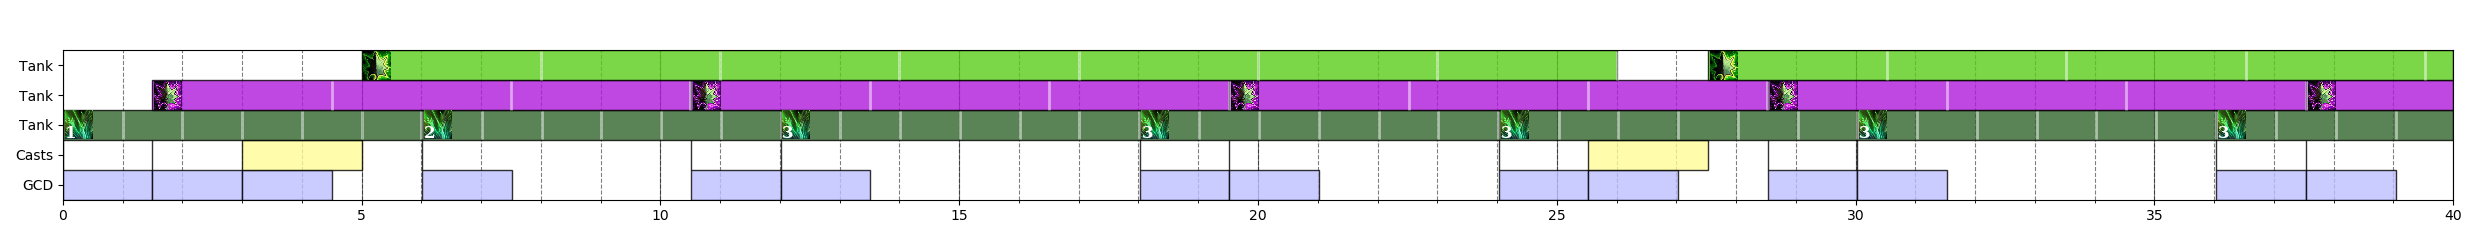
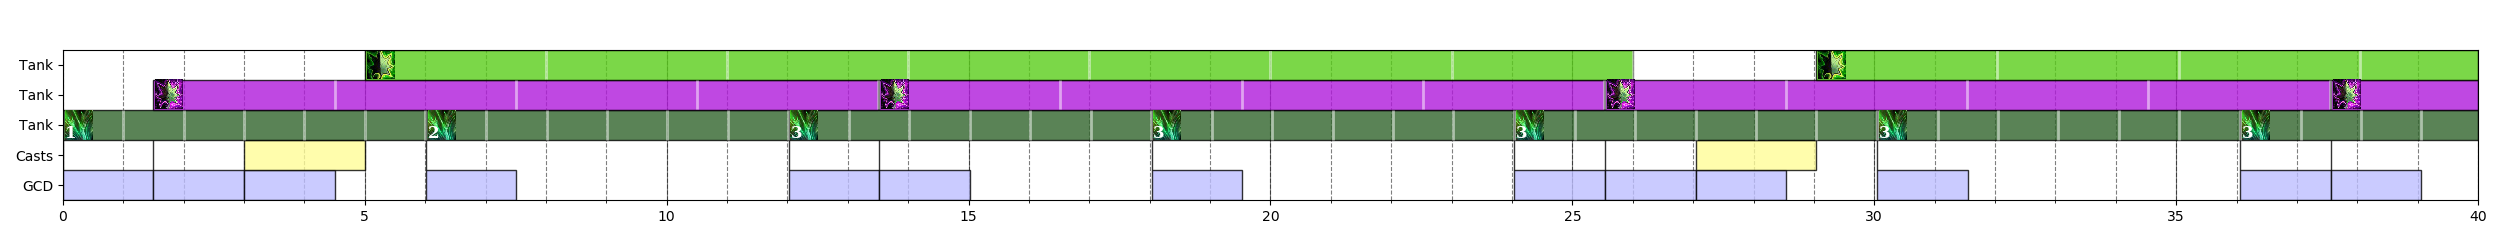
default number of stacks is 1 and not 0

diff --git a/rotation.py b/rotation.py
@@ -36,7 +36,7 @@ class Assignment(object):
 
 
 class Event(object):
-    def __init__(self, start, duration=0, stacks=0):
+    def __init__(self, start, duration=0, stacks=1):
         self._start = start
         self._duration = duration
         self._stacks = stacks
@@ -67,7 +67,7 @@ class Event(object):
 
 
 class SpellEvent(Event):
-    def __init__(self, start, spell, stacks=0):
+    def __init__(self, start, spell, stacks=1):
         super().__init__(start=start, duration=spell.duration, stacks=stacks)
         self._spell = spell
 
@@ -77,7 +77,7 @@ class SpellEvent(Event):
 
     @staticmethod
     def from_spell(spell, start):
-        return SpellEvent(start, spell, stacks=int(spell.max_stacks > 0))
+        return SpellEvent(start, spell, stacks=1)
 
     def get_heals(self, start, end, character):
         timestamps, heals, string_heals = list(), list(), list()
